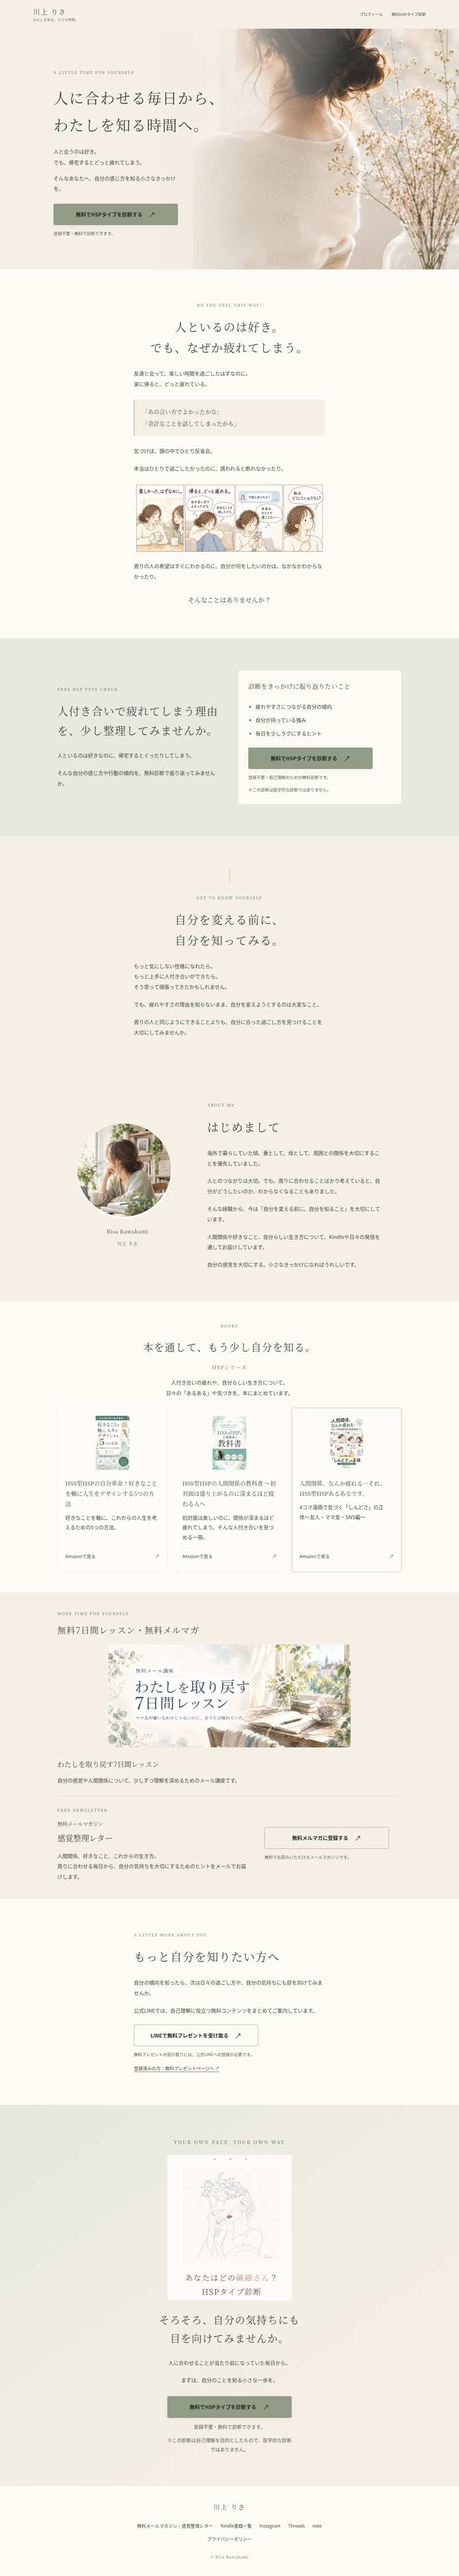
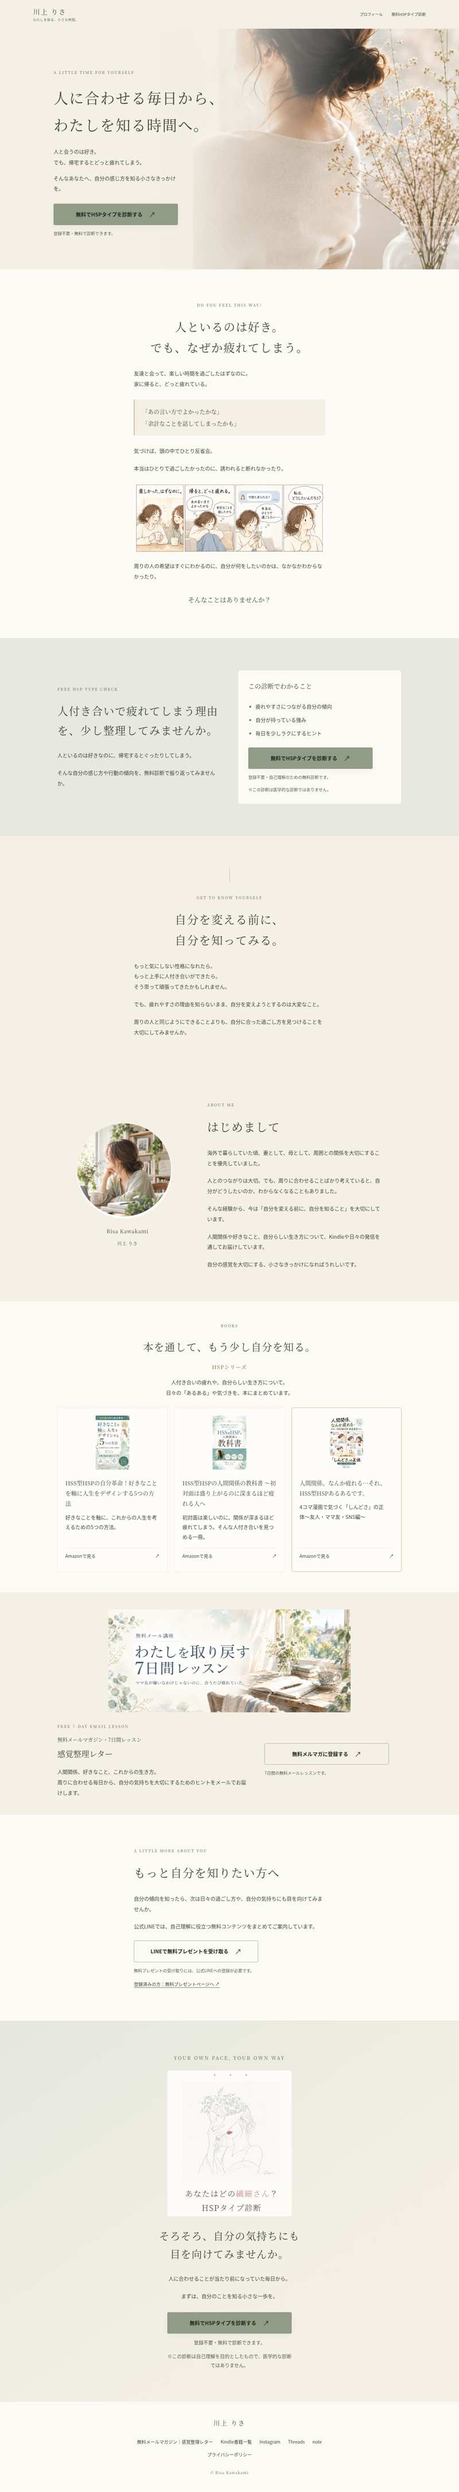
Unify seven-day email lesson registration and confirm diagnosis result benefits

diff --git a/index.html b/index.html
@@ -61,8 +61,8 @@
 <p>人といるのは好きなのに、帰宅するとぐったりしてしまう。</p>
 <p>そんな自分の感じ方や行動の傾向を、無料診断で振り返ってみませんか。</p></div>
 <div class="diagnosis-intro-card">
-<!-- 診断結果は未取得。結果に含まれると断定せず、自己理解のための視点として案内。 -->
-<h3>診断をきっかけに振り返りたいこと</h3>
+<!-- ご本人から提供された診断結果の傾向説明・素敵なところ・毎日を楽にするコツに対応。 -->
+<h3>この診断でわかること</h3>
 <ul class="diagnosis-points"><li>疲れやすさにつながる自分の傾向</li><li>自分が持っている強み</li><li>毎日を少しラクにするヒント</li></ul>
 <a class="cta" href="https://risa-hsp-shindan.vercel.app/" target="_blank" rel="noopener">無料でHSPタイプを診断する<span aria-hidden="true">↗</span></a>
 <p class="note">登録不要・自己理解のための無料診断です。</p>
@@ -121,19 +121,12 @@
 </div></div></section>
 <section class="section newsletter" id="newsletter">
 <div class="container">
-<p class="eyebrow">MORE TIME FOR YOURSELF</p>
-<h2 class="supplement-title">無料7日間レッスン・無料メルマガ</h2>
-<div class="lesson-overview">
-<img class="newsletter-banner" src="images/3b647b8e-da01-4126-99b4-f4cc9af961c1.png" width="1923" height="817" alt="無料メール講座 わたしを取り戻す7日間レッスン" loading="lazy">
-<div><h3>わたしを取り戻す7日間レッスン</h3>
-<p>自分の感覚や人間関係について、少しずつ理解を深めるためのメール講座です。</p></div>
-<!-- 専用登録URLは未確認。別サービスの321101や感覚整理レターのURLへ転送しない。 -->
-</div>
+<a href="https://www.reservestock.jp/subscribe/348241" target="_blank" rel="noopener" aria-label="無料7日間メールレッスンに登録する"><img class="newsletter-banner" src="images/3b647b8e-da01-4126-99b4-f4cc9af961c1.png" width="1923" height="817" alt="無料メール講座 わたしを取り戻す7日間レッスン" loading="lazy"></a>
 <div class="newsletter-card">
-<div><p class="eyebrow">FREE NEWSLETTER</p>
-<h3><span>無料メールマガジン</span>感覚整理レター</h3>
+<div><p class="eyebrow">FREE 7-DAY EMAIL LESSON</p>
+<h3><span>無料メールマガジン・7日間レッスン</span>感覚整理レター</h3>
 <p>人間関係、好きなこと、これからの生き方。<br>周りに合わせる毎日から、自分の気持ちを大切にするためのヒントをメールでお届けします。</p></div>
-<div class="newsletter-action"><a class="cta cta-secondary" href="https://www.reservestock.jp/subscribe/348241" target="_blank" rel="noopener">無料メルマガに登録する<span aria-hidden="true">↗</span></a><p class="note">無料でお読みいただけるメールマガジンです。</p></div>
+<div class="newsletter-action"><a class="cta cta-secondary" href="https://www.reservestock.jp/subscribe/348241" target="_blank" rel="noopener">無料メルマガに登録する<span aria-hidden="true">↗</span></a><p class="note">7日間の無料メールレッスンです。</p></div>
 </div></div></section>
 <section class="section line-gifts" id="line-gifts">
 <div class="reading">
